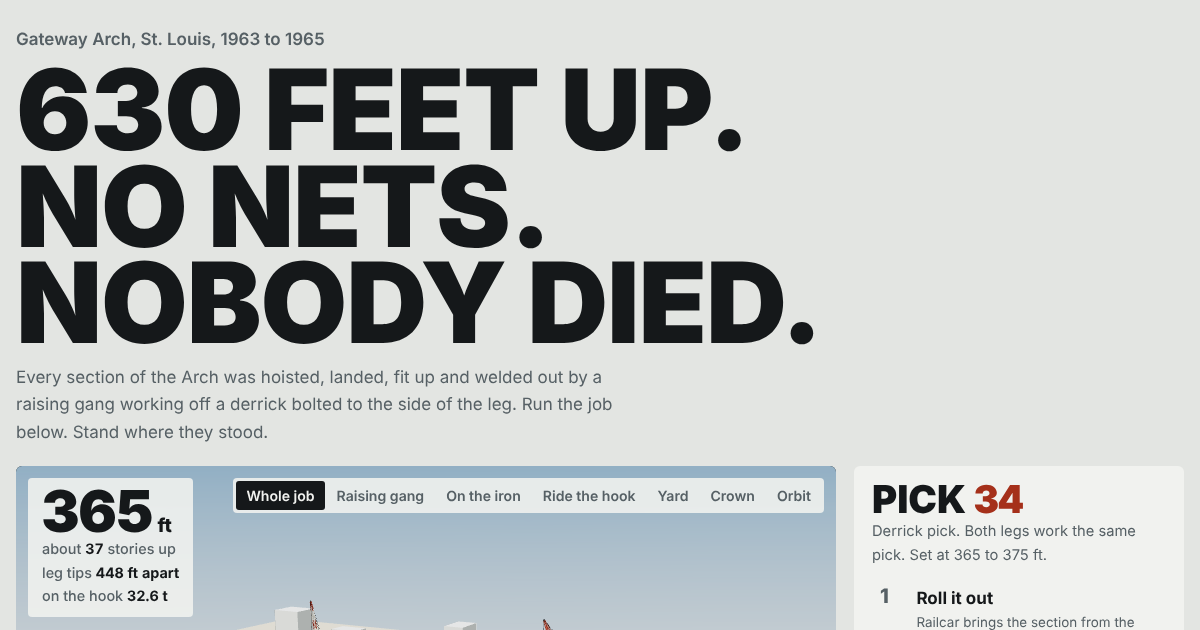
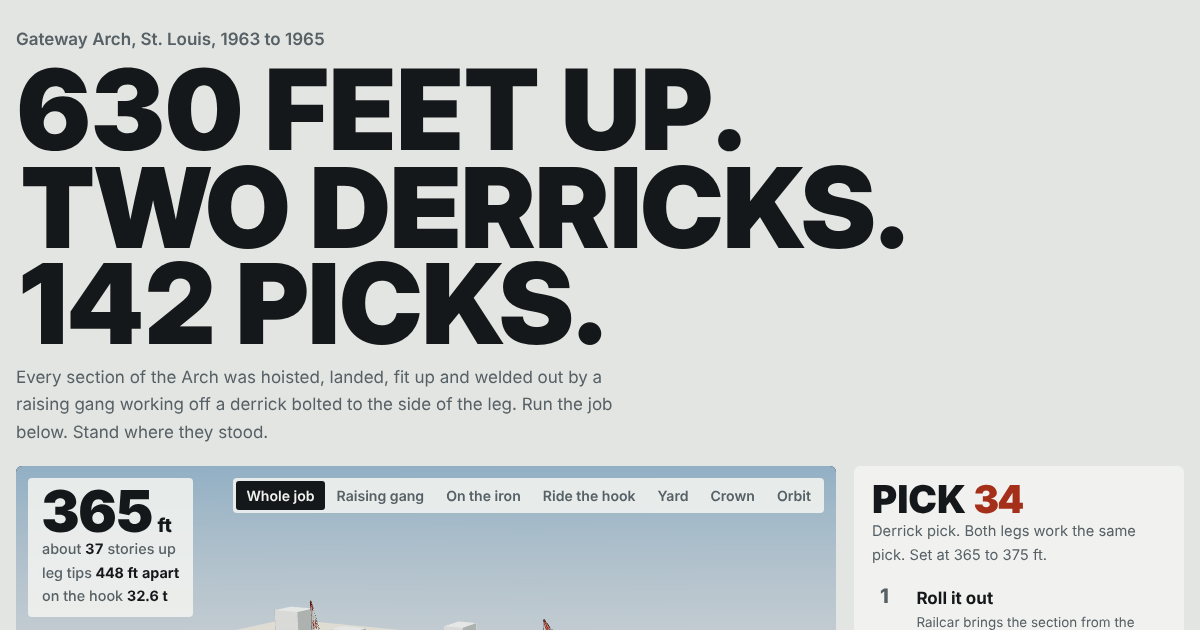
Change the headline to 630 feet up. Two derricks. 142 picks.
Headline, link preview text and preview image now lead with the work.
The no-nets safety record stays in the crew and record section with its source.

Claude-Session: https://claude.ai/code/session_01LLTyhqiRNZHwbKS7VAxF5G

Changed region(s): [[0.0, 0.2413, 0.7708, 0.573]]

diff --git a/index.html b/index.html
@@ -5,7 +5,7 @@
 <meta name="viewport" content="width=device-width,initial-scale=1,viewport-fit=cover">
 <meta name="description" content="Run the Gateway Arch erection sequence in 3D. Stand on the iron, ride the hook, watch topping day. A learning study by Andrew Windisch.">
 <meta property="og:title" content="Gateway Arch Raising Gang">
-<meta property="og:description" content="630 feet up. No nets. Nobody died. Run the Arch erection sequence in 3D.">
+<meta property="og:description" content="630 feet up. Two derricks. 142 picks. Run the Arch erection sequence in 3D.">
 <meta property="og:type" content="website">
 <title>Gateway Arch Raising Gang</title>
 <meta property="og:image" content="https://arch.andrewwindisch.com/og.png">
@@ -153,7 +153,7 @@ sup a{text-decoration:none;padding:0 1px}
 <div class="wrap">
 <header class="top">
   <p class="where">Gateway Arch, St. Louis, 1963 to 1965</p>
-  <h1><span>630 feet up.</span><span>No nets.</span><span>Nobody died.</span></h1>
+  <h1><span>630 feet up.</span><span>Two derricks.</span><span>142 picks.</span></h1>
   <p class="dek">Every section of the Arch was hoisted, landed, fit up and welded out by a raising gang working off a derrick bolted to the side of the leg. Run the job below. Stand where they stood.</p>
 </header>
 
